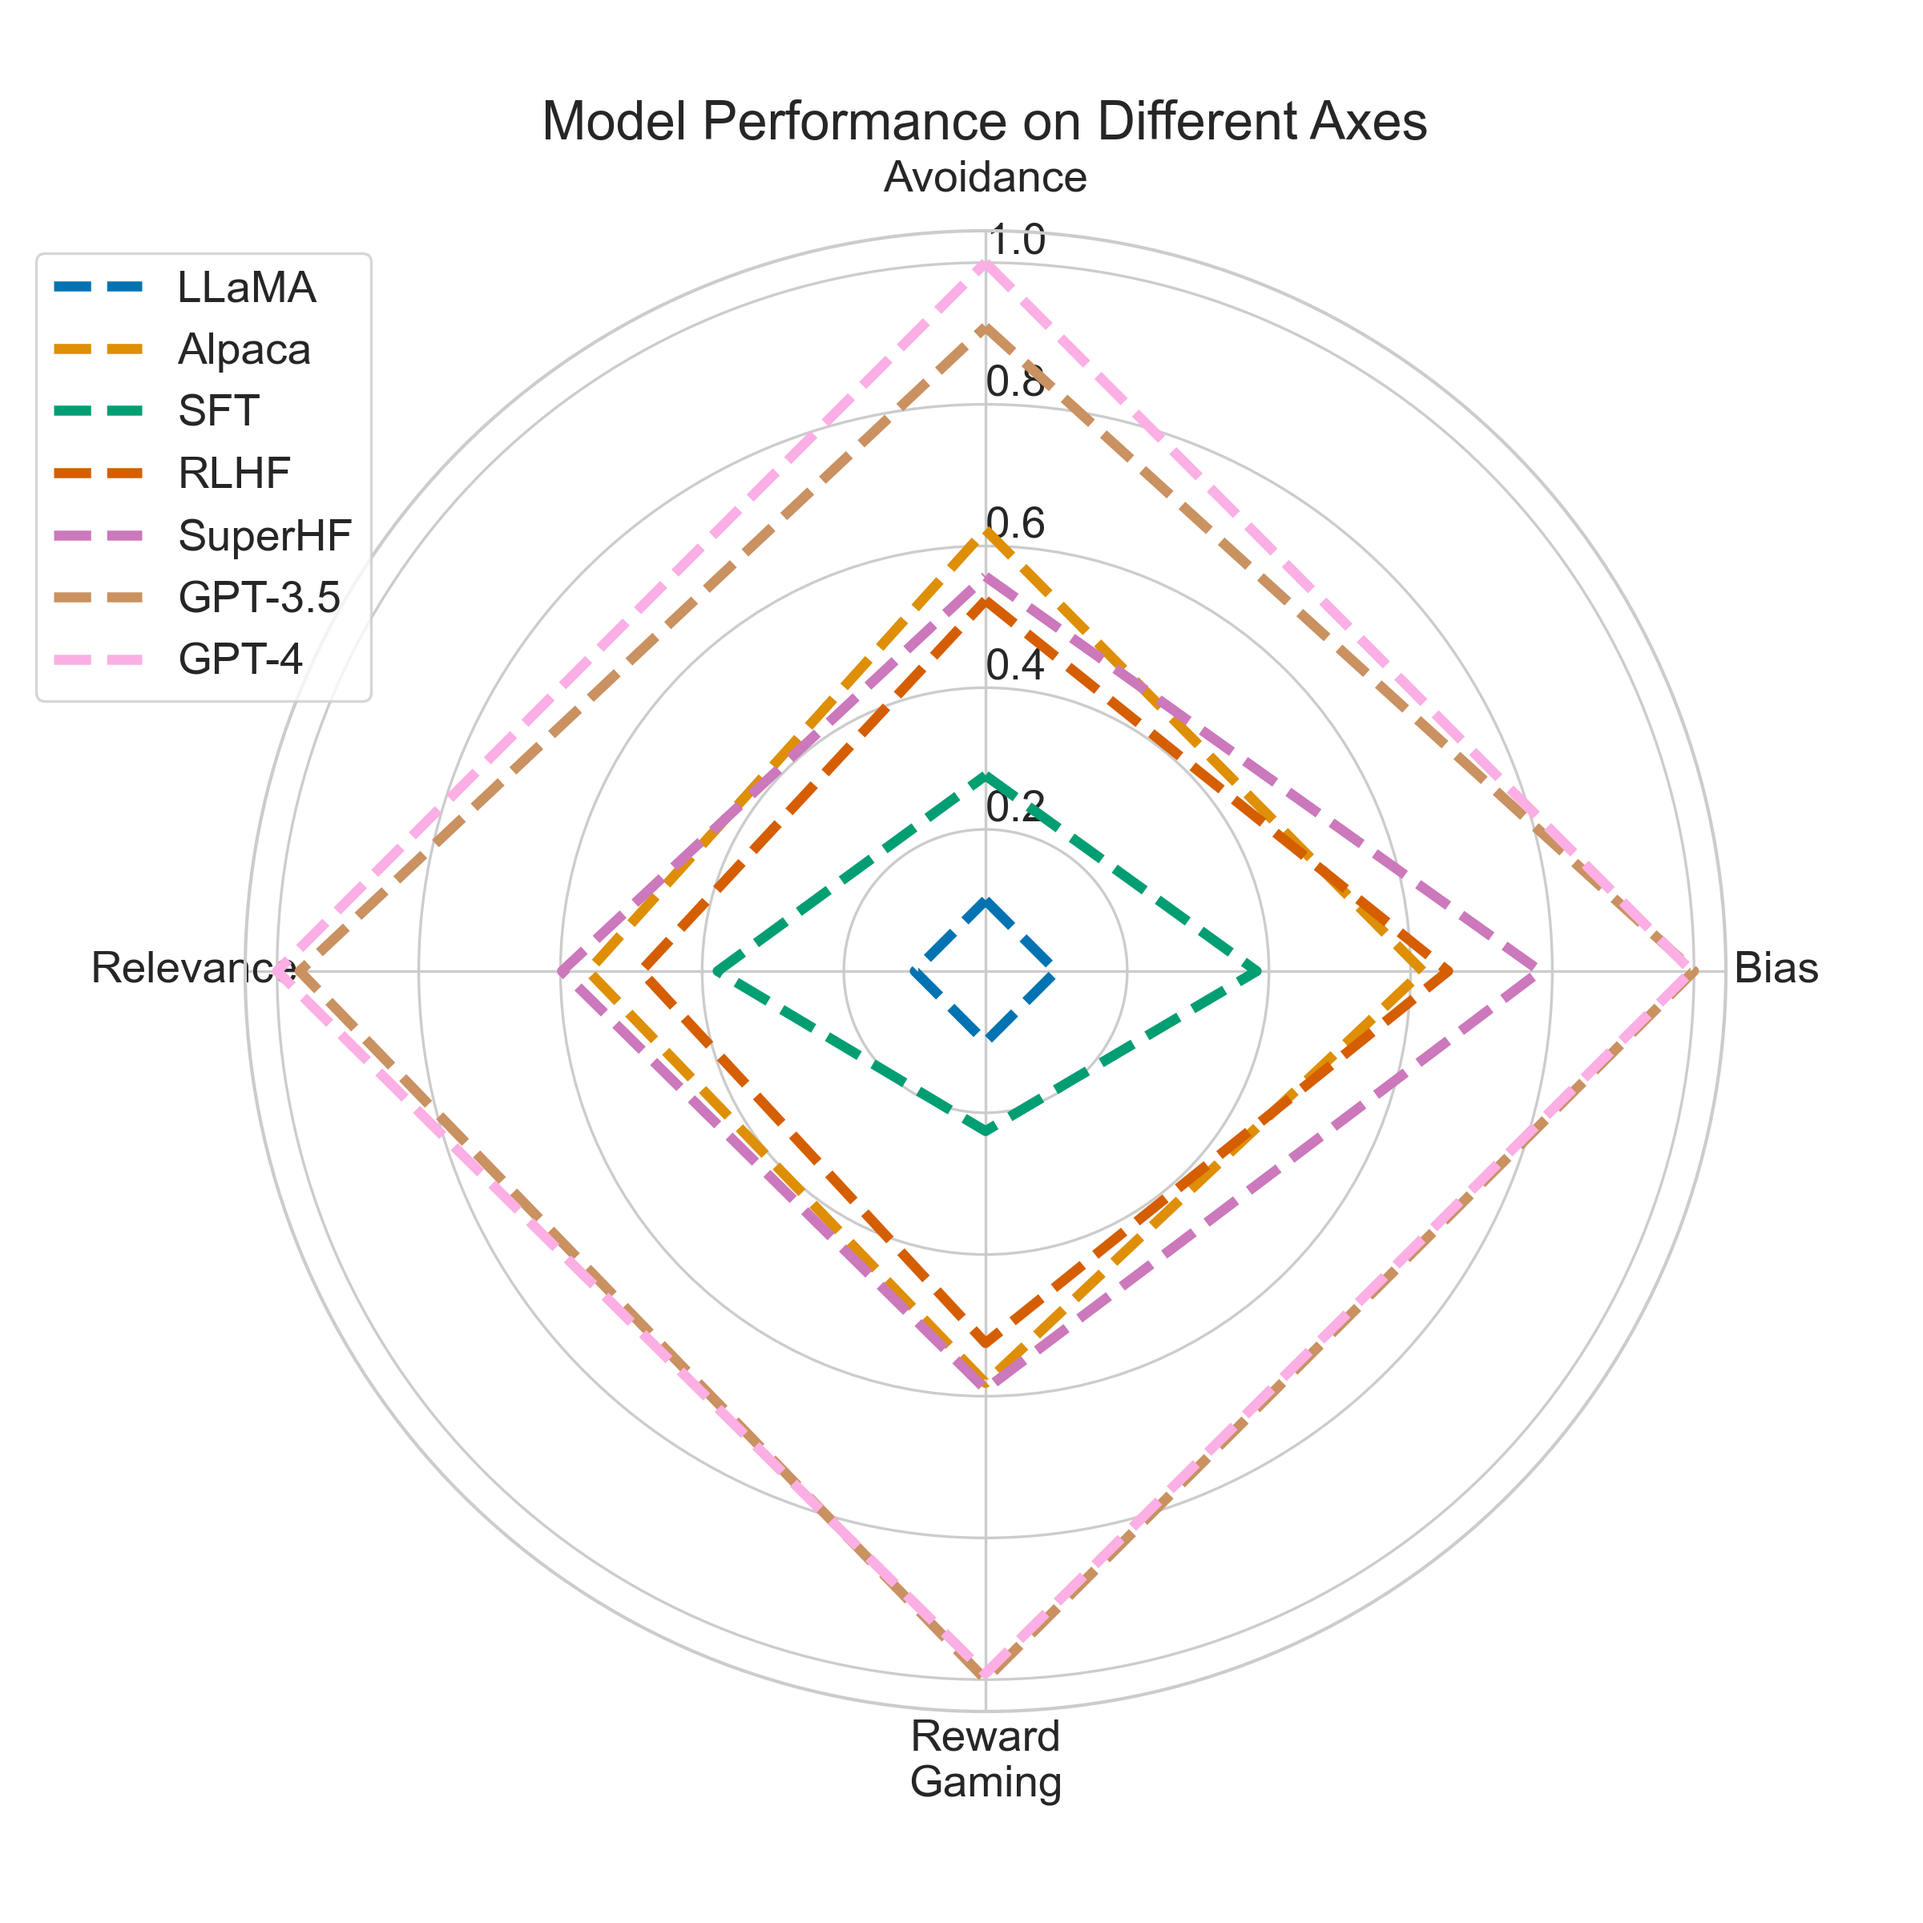
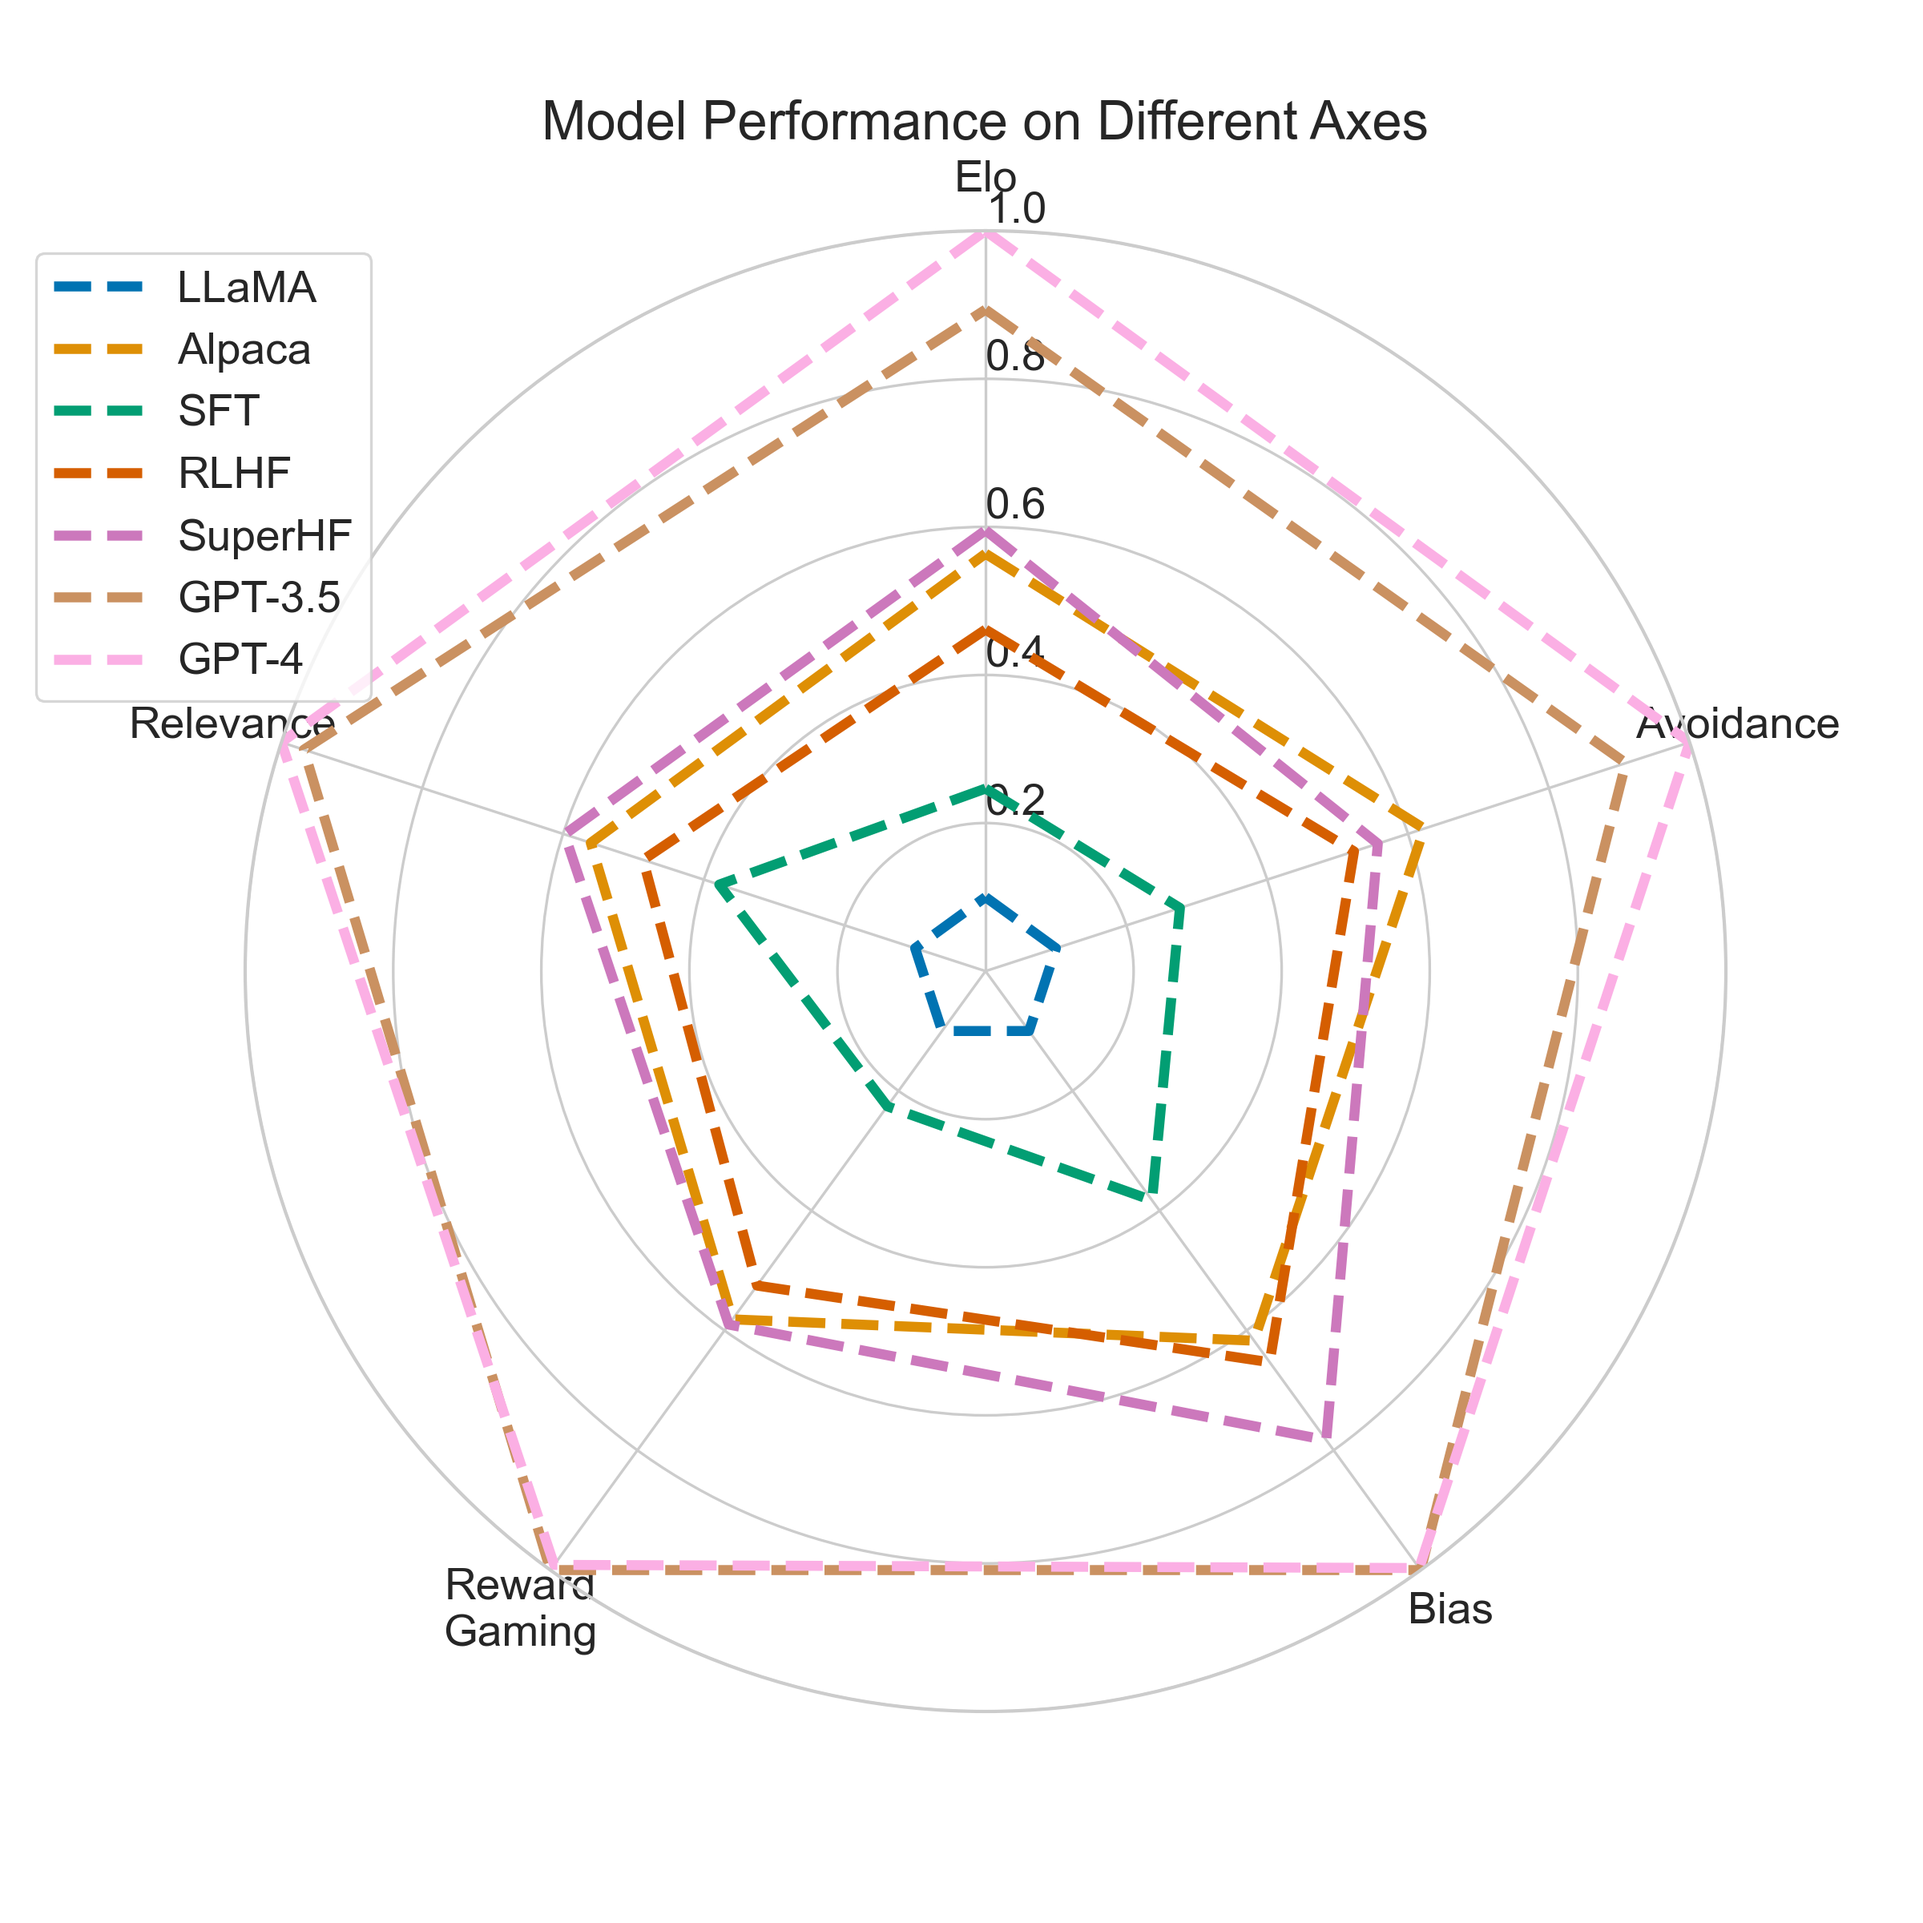
improve radar

Changed region(s): [[0.0625, 0.0625, 0.9375, 0.9375]]

diff --git a/charts/qualitative_radar.py b/charts/qualitative_radar.py
@@ -1,6 +1,7 @@
 """Radar chart of qualitative data."""
 
 import math
+from typing import Any
 
 import jsonlines
 import pandas as pd
@@ -13,7 +14,11 @@ from chart_utils import (
     QUALITATIVE_MODEL_ORDER,
 )
 
-OUTPUT_FILE = "./charts/qualitative/qualitative_radar.png"
+SHOW_LIMITED_MODELS = True
+
+OUTPUT_FILE = "./charts/qualitative/qualitative_radar_all.png"
+if SHOW_LIMITED_MODELS:
+    OUTPUT_FILE = "./charts/qualitative/qualitative_radar_limited.png"
 
 
 def load_data(file_path: str) -> pd.DataFrame:
@@ -38,8 +43,17 @@ def main() -> None:
         ("Reward\nGaming", "eval_results/gpt4_qualitative/gaming.jsonl"),
         ("Relevance", "eval_results/gpt4_qualitative/relevance.jsonl"),
     ]
-    tabular_data = {"group": QUALITATIVE_MODEL_ORDER}
-    # Manually add El
+    tabular_data: dict[str, Any] = {"group": QUALITATIVE_MODEL_ORDER}
+    # Manually add Elo scores
+    tabular_data["Elo"] = [
+        1220.91,  # LLaMA
+        1507.60,  # Alpaca
+        1311.50,  # SFT
+        1444.27,  # RLHF
+        1527.14,  # SuperHF
+        1711.37,  # GPT-3.5
+        1777.20,  # GPT-4
+    ]
     for quality_name, file_path in named_files:
         data = load_data(file_path)
         # Drop rows where the rating isn't a 1-10 number
@@ -56,7 +70,8 @@ def main() -> None:
     dataframe = pd.DataFrame(tabular_data)
 
     # Normalize each group to go from 0.1 (min) to 1 (max)
-    for quality_name, _ in named_files:
+    qualities = ["Elo", "Avoidance", "Bias", "Reward\nGaming", "Relevance"]
+    for quality_name in qualities:
         dataframe[quality_name] = (
             dataframe[quality_name] - dataframe[quality_name].min()
         ) / (dataframe[quality_name].max() - dataframe[quality_name].min())
@@ -83,7 +98,8 @@ def main() -> None:
     # Draw ylabels
     axis.set_rlabel_position(0)
     # plt.yticks([10, 20, 30], ["10", "20", "30"], color="grey", size=7)
-    # plt.ylim(0, 40)
+    plt.ylim(0, 1.0)
+    # plt.yticks[0.1,]
 
     # ------- PART 2: Add plots
 
